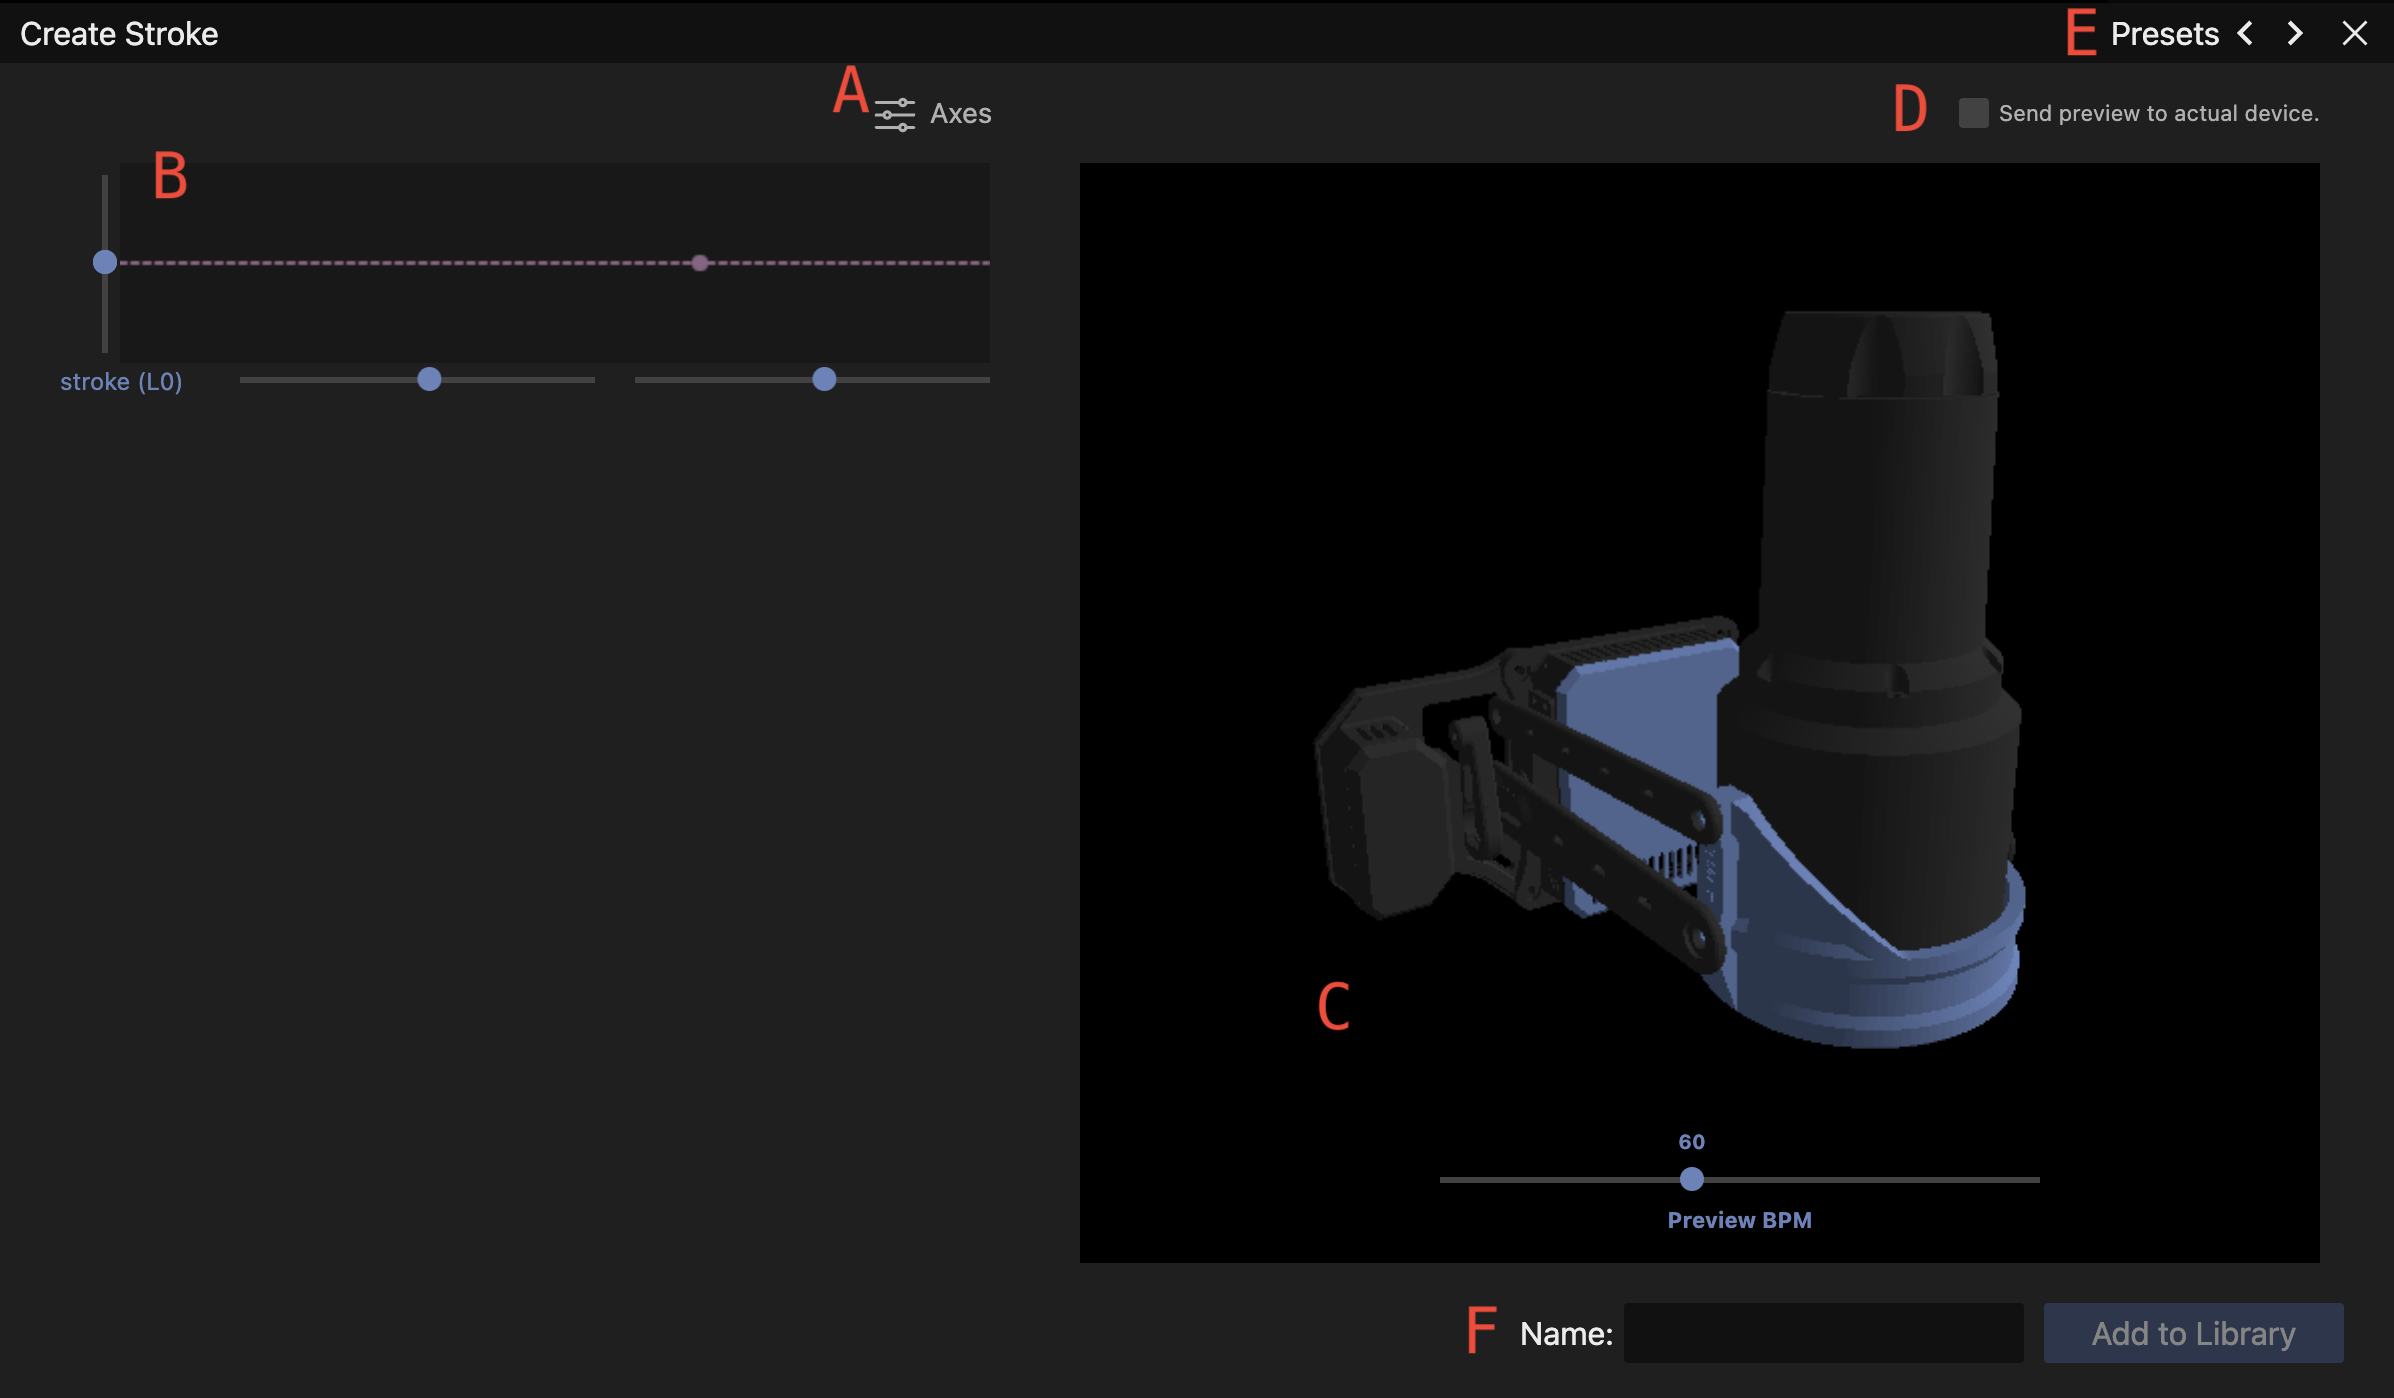
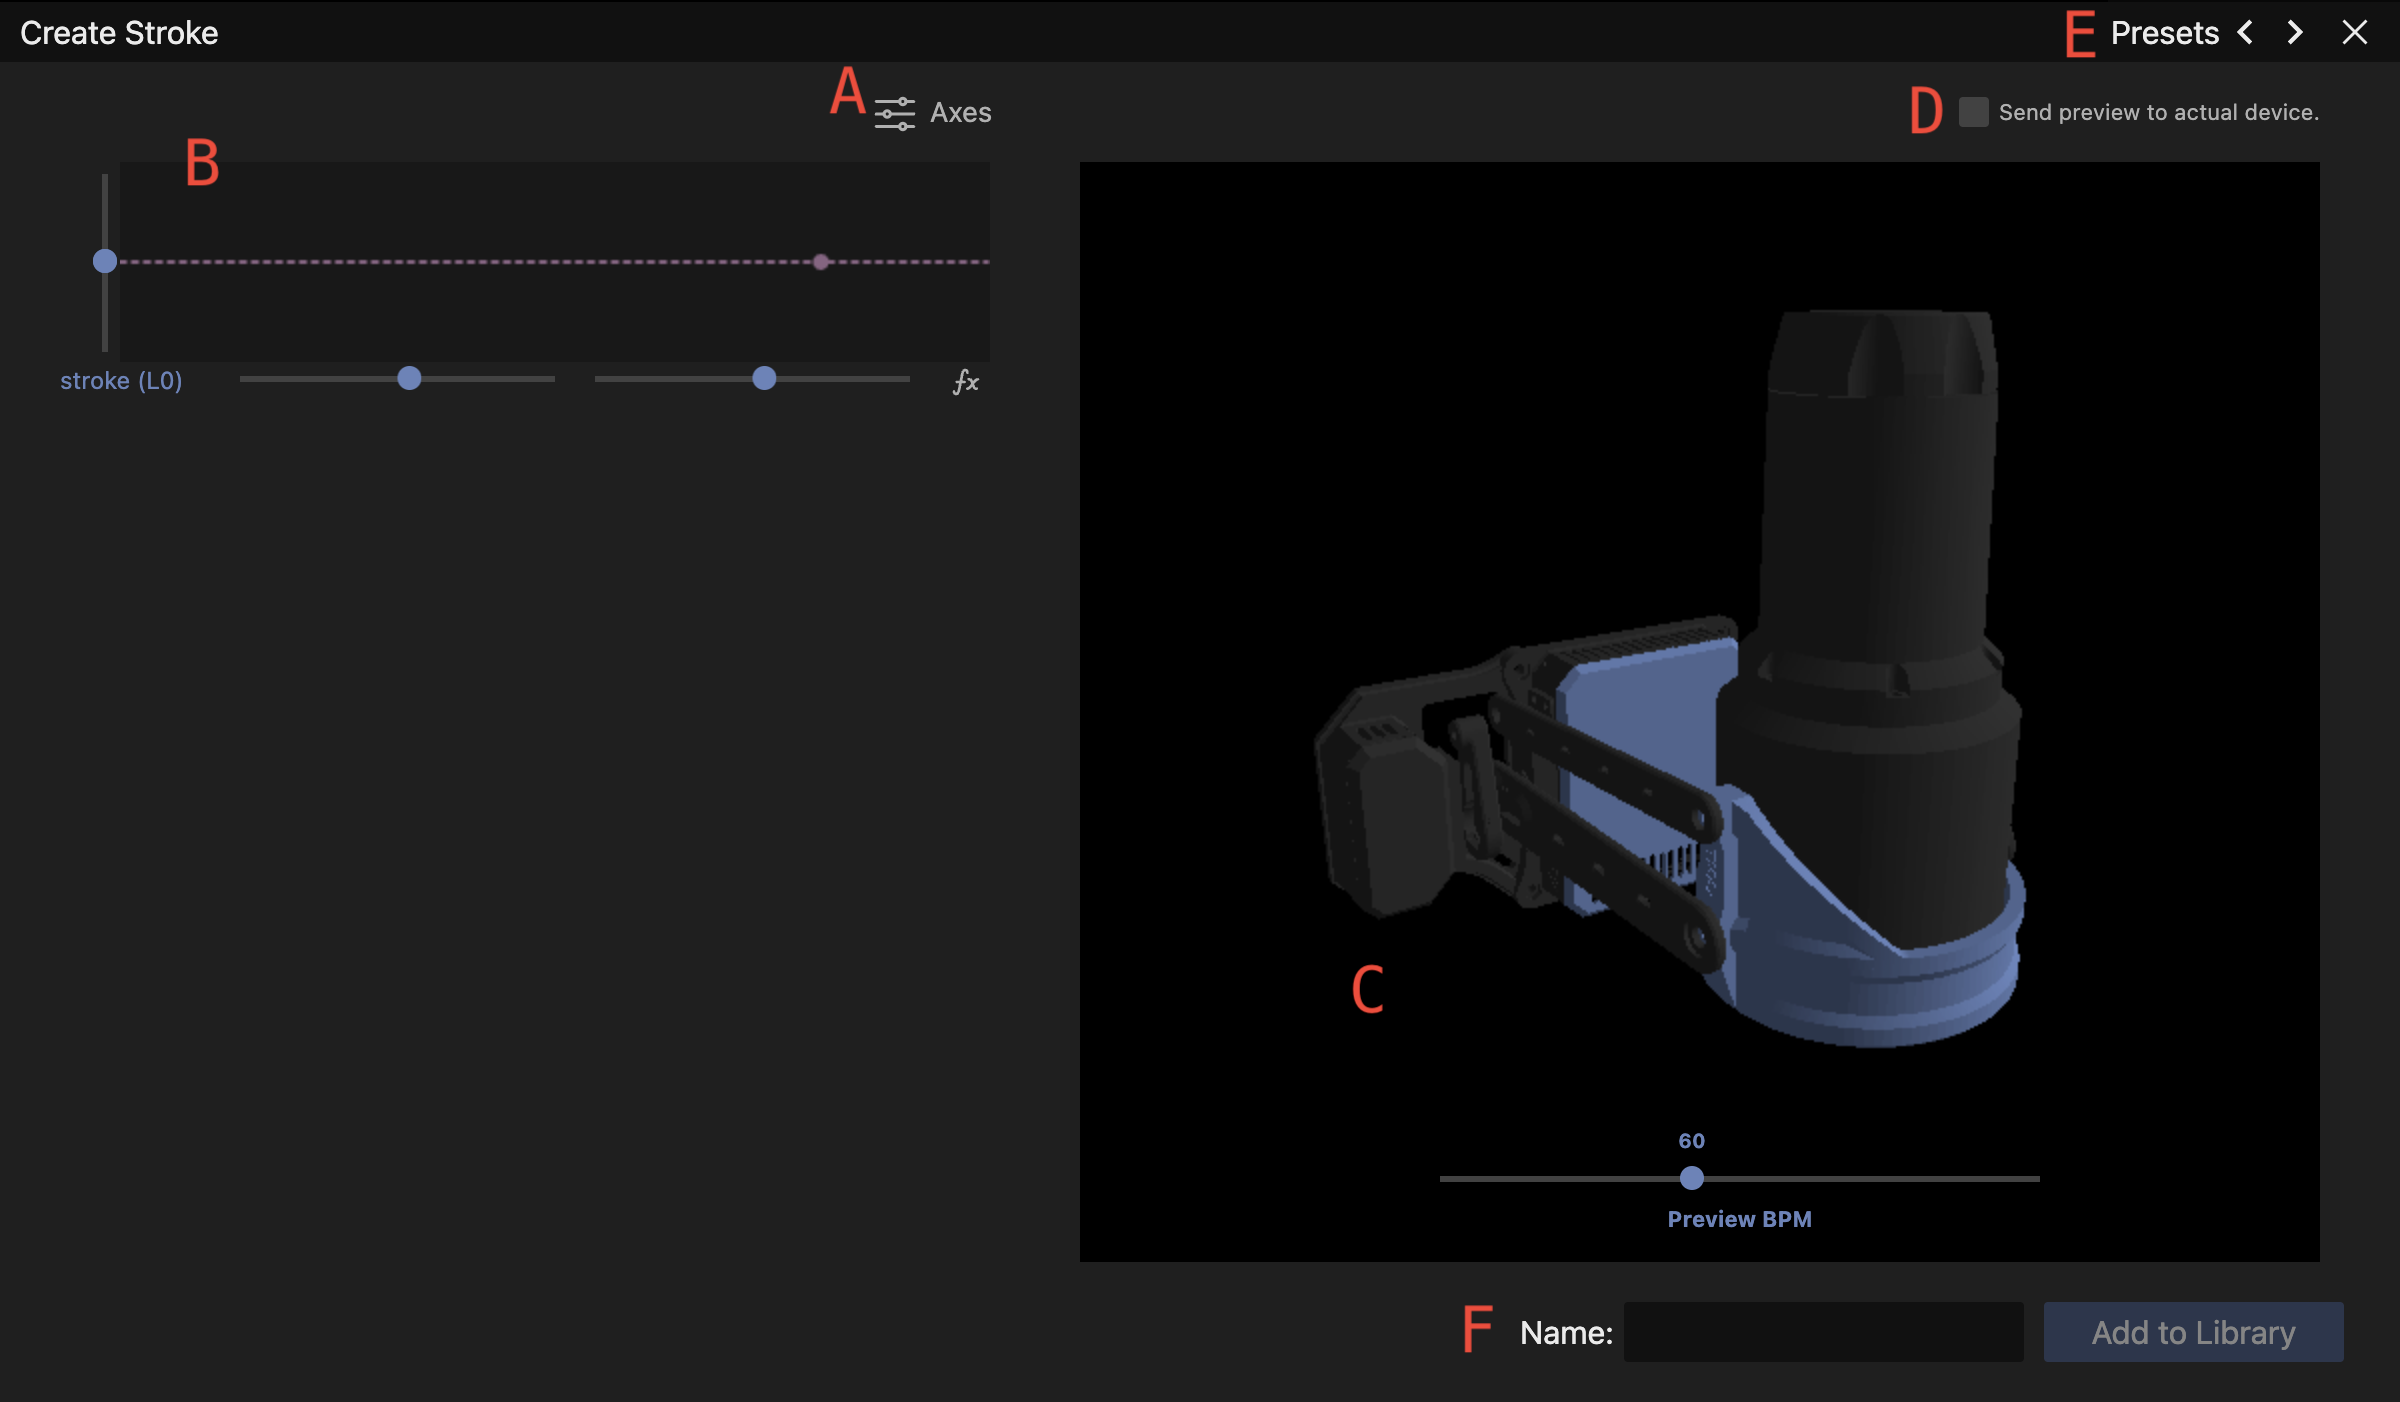
Update for Ayva Stroker Lite

diff --git a/docs/tutorial-ayva-stroker-lite.html b/docs/tutorial-ayva-stroker-lite.html
@@ -176,7 +176,7 @@
 </ul>
 <h3 id="output">2. Output Range and Device Connection</h3>
 <p><img width="350px" src="./images/stroker-lite-guide-output-range.png"><br/></p>
-<p>This section allows you to set the output range for all supported axes (linear and rotational). The details on how Ayva scales output can be found in the <a href="https://ayvajs.github.io/ayvajs-docs/tutorial-configuration.html" target="_blank">Configuration</a> documentation under the Axis Limits section.</p>
+<p>This section allows you to set the output range for all linear and rotational axes. The details on how Ayva scales output can be found in the <a href="https://ayvajs.github.io/ayvajs-docs/tutorial-configuration.html" target="_blank">Configuration</a> documentation under the Axis Limits section.</p>
 <p>The button in the top right gives the device connection status. Clicking it will open the built-in Web Serial API window of the browser that allows you to select a device to connect to. <em>For safety reasons, connections can only be made when in <strong>Stopped</strong> mode. You will not be able to connect to a device if a stroke is currently playing.</em></p>
 <h3 id="controls">3. Controls</h3>
 <img width="500px" src="./images/stroker-lite-guide-controls.png">  
@@ -197,7 +197,7 @@
 <li><strong>Twist Phase</strong>: When twist is enabled, this allows you to specify the <em>phase</em> of the twist motion.</li>
 <li><strong>Twist Eccentricity</strong>: When twist is enabled, this allows you to specify the <em>eccentricity</em> of the twist motion.</li>
 </ul>
-<p>The twist motion (like any other axis motion for TempestStrokes) is a <strong>cosine</strong> shaped movement. See the <a href="https://ayvajs.github.io/ayvajs-docs/tutorial-behavior-api-tempest-stroke.html" target="_blank">TempestStroke</a> documentation for additional details on parameters such as phase and eccentricity.</p>
+<p>Default twist motion is a sinusoidal shaped movement. See the <a href="https://ayvajs.github.io/ayvajs-docs/tutorial-behavior-api-tempest-stroke.html" target="_blank">TempestStroke</a> documentation for additional details on parameters such as phase and eccentricity.</p>
 <h3 id="strokes">5. Strokes</h3>
 <p><img width="500px" src="./images/stroker-lite-guide-strokes.png"><br/></p>
 <p>This section allows you to manage strokes.</p>
@@ -224,7 +224,8 @@
   <li>Motion can be specified for each axis with an interactive graph widget. The parameters available are:<ul>
       <li><b>Range:</b> The left slider sets the range. This is a dual slider specifying the <i>from</i> and <i>to</i> values for the motion. The knobs can be slid past each other to change the shape of the motion, as well as be set to the same value if you want the axis to hold a value for the duration of the motion.</li>
       <li><b>Phase:</b> The bottom left slider sets the phase of the motion.</li>
-      <li><b>Eccentricity.:</b> The bottom right slider sets the eccentricity of the motion.</li>
+      <li><b>Eccentricity:</b> The bottom right slider sets the eccentricity of the motion.</li>
+      <li><b>Function:</b> The bottom right icon (fx) allows you to change the mathematical function. The options are <i>Sinusoidal</i>, <i>Parabolic</i>, or <i>Linear</i></li>
     </ul>
     Use the middle mouse over a graph to quickly expand or contract the range.
     <br/>Double click a slider knob to reset to default value(s). 

diff --git a/tutorials/ayva-stroker-lite.md b/tutorials/ayva-stroker-lite.md
@@ -54,7 +54,7 @@ Controls:
 
 <img width="350px" src="./images/stroker-lite-guide-output-range.png"><br/> 
 
-This section allows you to set the output range for all supported axes (linear and rotational). The details on how Ayva scales output can be found in the <a href="https://ayvajs.github.io/ayvajs-docs/tutorial-configuration.html" target="_blank">Configuration</a> documentation under the Axis Limits section.
+This section allows you to set the output range for all linear and rotational axes. The details on how Ayva scales output can be found in the <a href="https://ayvajs.github.io/ayvajs-docs/tutorial-configuration.html" target="_blank">Configuration</a> documentation under the Axis Limits section.
 
 The button in the top right gives the device connection status. Clicking it will open the built-in Web Serial API window of the browser that allows you to select a device to connect to. _For safety reasons, connections can only be made when in __Stopped__ mode. You will not be able to connect to a device if a stroke is currently playing._
 
@@ -80,7 +80,7 @@ This section allows you to set the parameters that are used during free play mod
 - __Twist Phase__: When twist is enabled, this allows you to specify the _phase_ of the twist motion.
 - __Twist Eccentricity__: When twist is enabled, this allows you to specify the _eccentricity_ of the twist motion.
 
-The twist motion (like any other axis motion for TempestStrokes) is a __cosine__ shaped movement. See the <a href="https://ayvajs.github.io/ayvajs-docs/tutorial-behavior-api-tempest-stroke.html" target="_blank">TempestStroke</a> documentation for additional details on parameters such as phase and eccentricity.
+Default twist motion is a sinusoidal shaped movement. See the <a href="https://ayvajs.github.io/ayvajs-docs/tutorial-behavior-api-tempest-stroke.html" target="_blank">TempestStroke</a> documentation for additional details on parameters such as phase and eccentricity.
 
 <h3 id="strokes">5. Strokes</h3>
 
@@ -123,7 +123,8 @@ The stroke designer can be accessed by clicking the _gear_ icon in the top right
   <li>Motion can be specified for each axis with an interactive graph widget. The parameters available are:<ul>
       <li><b>Range:</b> The left slider sets the range. This is a dual slider specifying the <i>from</i> and <i>to</i> values for the motion. The knobs can be slid past each other to change the shape of the motion, as well as be set to the same value if you want the axis to hold a value for the duration of the motion.</li>
       <li><b>Phase:</b> The bottom left slider sets the phase of the motion.</li>
-      <li><b>Eccentricity.:</b> The bottom right slider sets the eccentricity of the motion.</li>
+      <li><b>Eccentricity:</b> The bottom right slider sets the eccentricity of the motion.</li>
+      <li><b>Function:</b> The bottom right icon (fx) allows you to change the mathematical function. The options are <i>Sinusoidal</i>, <i>Parabolic</i>, or <i>Linear</i></li>
     </ul>
     Use the middle mouse over a graph to quickly expand or contract the range.
     <br/>Double click a slider knob to reset to default value(s). 
